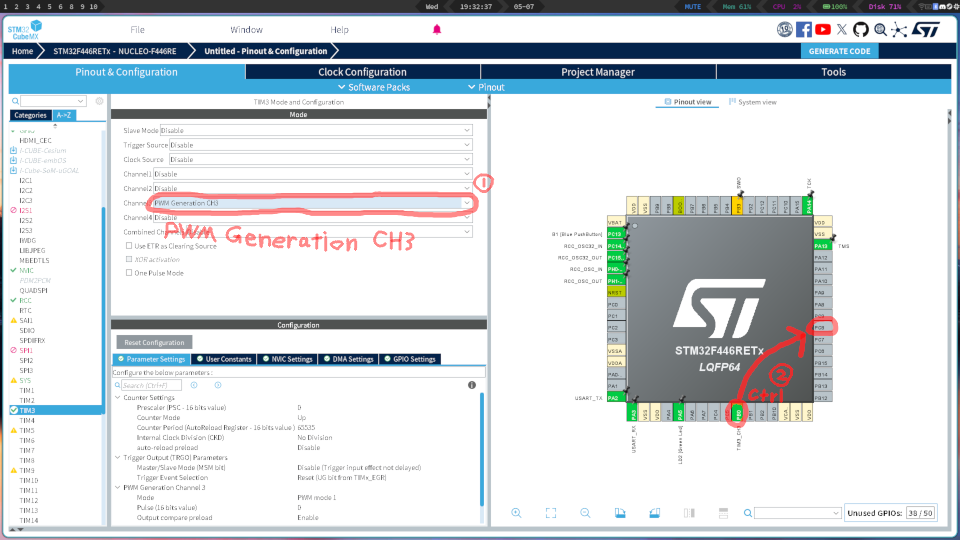
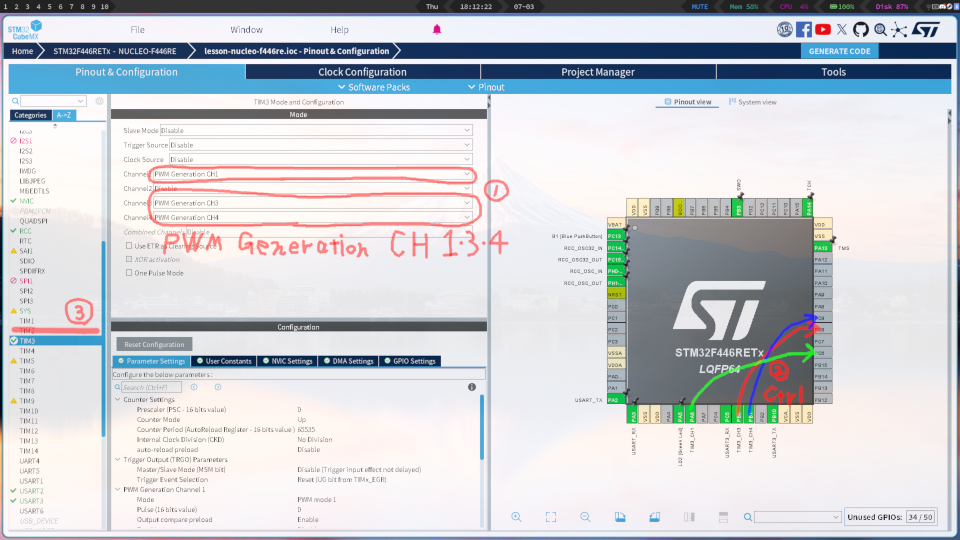
feature: 制御講習/ロボット制御入門: 足回り用PWMの設定を追加

diff --git a/lessons/program/intro/3.md b/lessons/program/intro/3.md
@@ -3,7 +3,7 @@ author: Sora Tonami
 date: 2025/04/23
 description: 実際にプロジェクトを作ってみよう！
 layout: default
-modified: 2025/05/28
+modified: 2025/07/04
 title: プロジェクトを作ってみよう その1 \| ロボット制御入門 \| 制御講習
 title-short: プロジェクトを作ってみよう その1
 ---
@@ -46,15 +46,28 @@ title-short: プロジェクトを作ってみよう その1
 
 まず機能一覧をA to Zにして(①)、TIM3を選択(②)します。
 
-![STM32CubeMXのピン設定画面、タイマー3のチャンネル3のPWM設定]
+![STM32CubeMXのピン設定画面、タイマー3のPWM設定]
 
 TIM3、タイマー3の設定が開きます。\
 タイマーは、一定間隔で処理したりn回入力された時に処理したりするための機能です。
 
-赤で囲ったチャンネル3の設定を変更(①)します。\
-`PWM Generation CH3`を選びます。`Output Compare 〜`や`PWM Generation No Output`ではないので注意。
+赤で囲ったチャンネル1・3・4の設定を変更(①)します。\
+`PWM Generation CH*`を選びます。`Output Compare 〜`や`PWM Generation No Output`ではないので注意。
 
-変更したら右のピンのPB0に割り当てられますが、今回はPC8に割り当てたいのでCtrlキーを押しながらD&Dして(②)下さい。
+変更したら右のピンのPA6・PB0・PB1に割り当てられますが、今回はそれぞれPC6・PC8・PC9に割り当てたいのでCtrlキーを押しながらD&Dして(②)下さい。
+
+次に、TIM2を選択(③)します。
+
+![STM32CubeMXのピン設定画面、タイマー2のPWM設定]
+
+TIM2、タイマー2の設定が開きます。
+
+赤で囲ったチャンネル1の設定を変更(①)します。\
+こちらも`PWM Generation CH1`を選びます。他のを選ばないよう注意。
+
+変更したら右のピンのPA0に割り当てられますが、例によってPB8に割り当てたいのでCtrlキーを押しながらD&Dして(②)下さい。
+
+また、そのままでは信号が1/65536になってしまうため最大値を65535へ設定(③)します。
 
 ![STM32CubeMXのピン設定画面、USART3の設定]
 
@@ -113,7 +126,8 @@ NVIC Settingsを選択(③)してチェックを入れます(④)。\
 [stm32cubemxのトップ画面]: /assets/lessons/program/cubemx-top.png
 [stm32cubemxのピン設定画面、a to zへ変更]: /assets/lessons/program/cubemx-edit-3.png
 [stm32cubemxのピン設定画面、usart3の設定]: /assets/lessons/program/cubemx-edit-5.png
-[stm32cubemxのピン設定画面、タイマー3のチャンネル3のpwm設定]: /assets/lessons/program/cubemx-edit-4.png
+[stm32cubemxのピン設定画面、タイマー2のpwm設定]: /assets/lessons/program/cubemx-edit-4.1.png
+[stm32cubemxのピン設定画面、タイマー3のpwm設定]: /assets/lessons/program/cubemx-edit-4.png
 [stm32cubemxのピン設定画面、初期状態]: /assets/lessons/program/cubemx-edit-1.png
 [stm32cubemxのプロジェクト作成画面、nucleo-f446reを選択している状態]: /assets/lessons/program/cubemx-create-2.png
 [stm32cubemxのプロジェクト作成画面、初期状態]: /assets/lessons/program/cubemx-create-1.png
